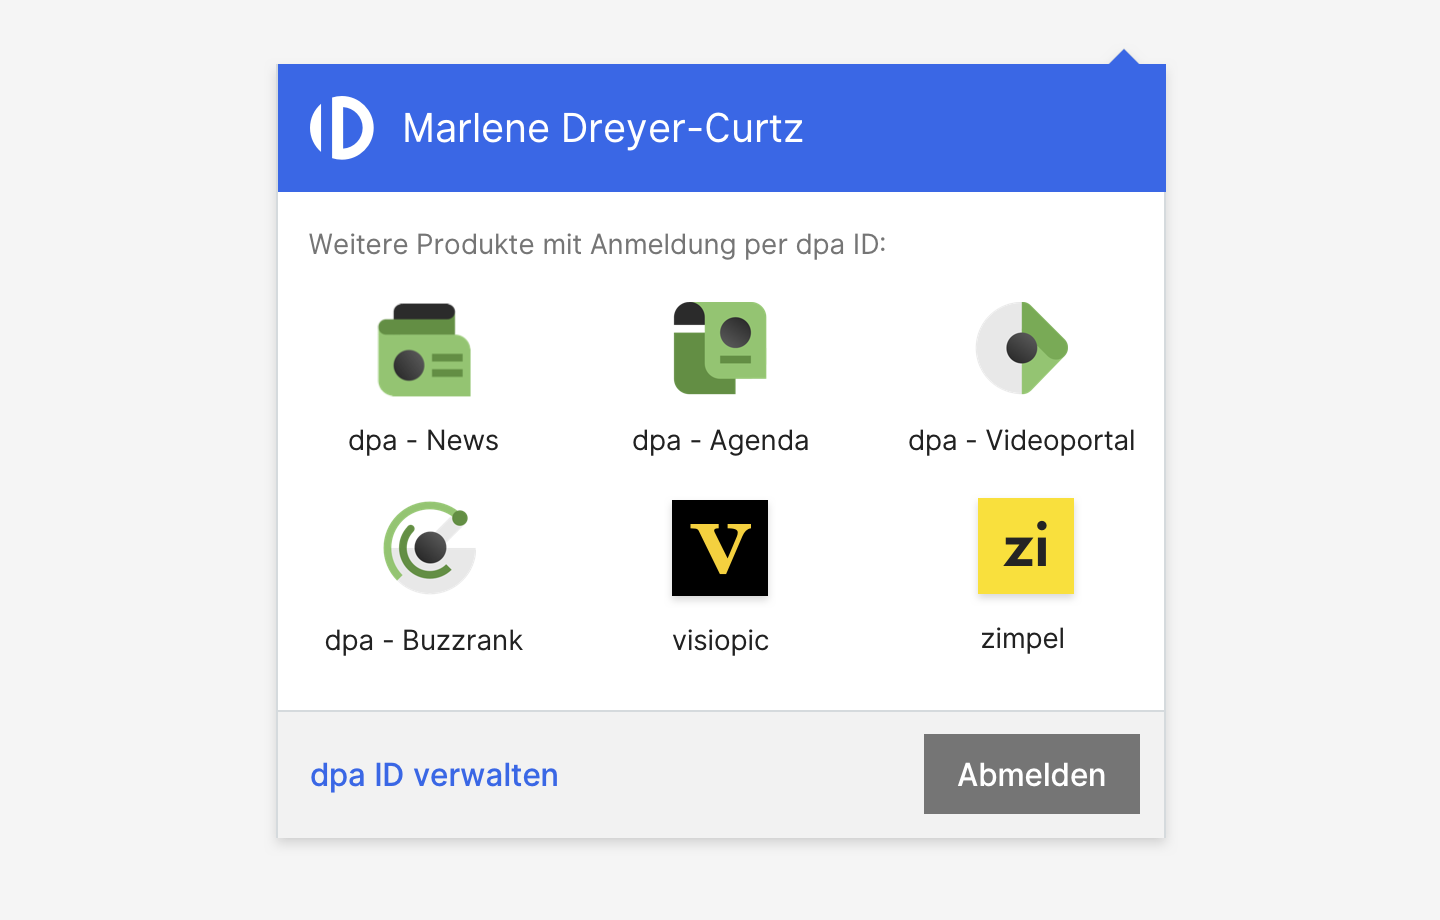
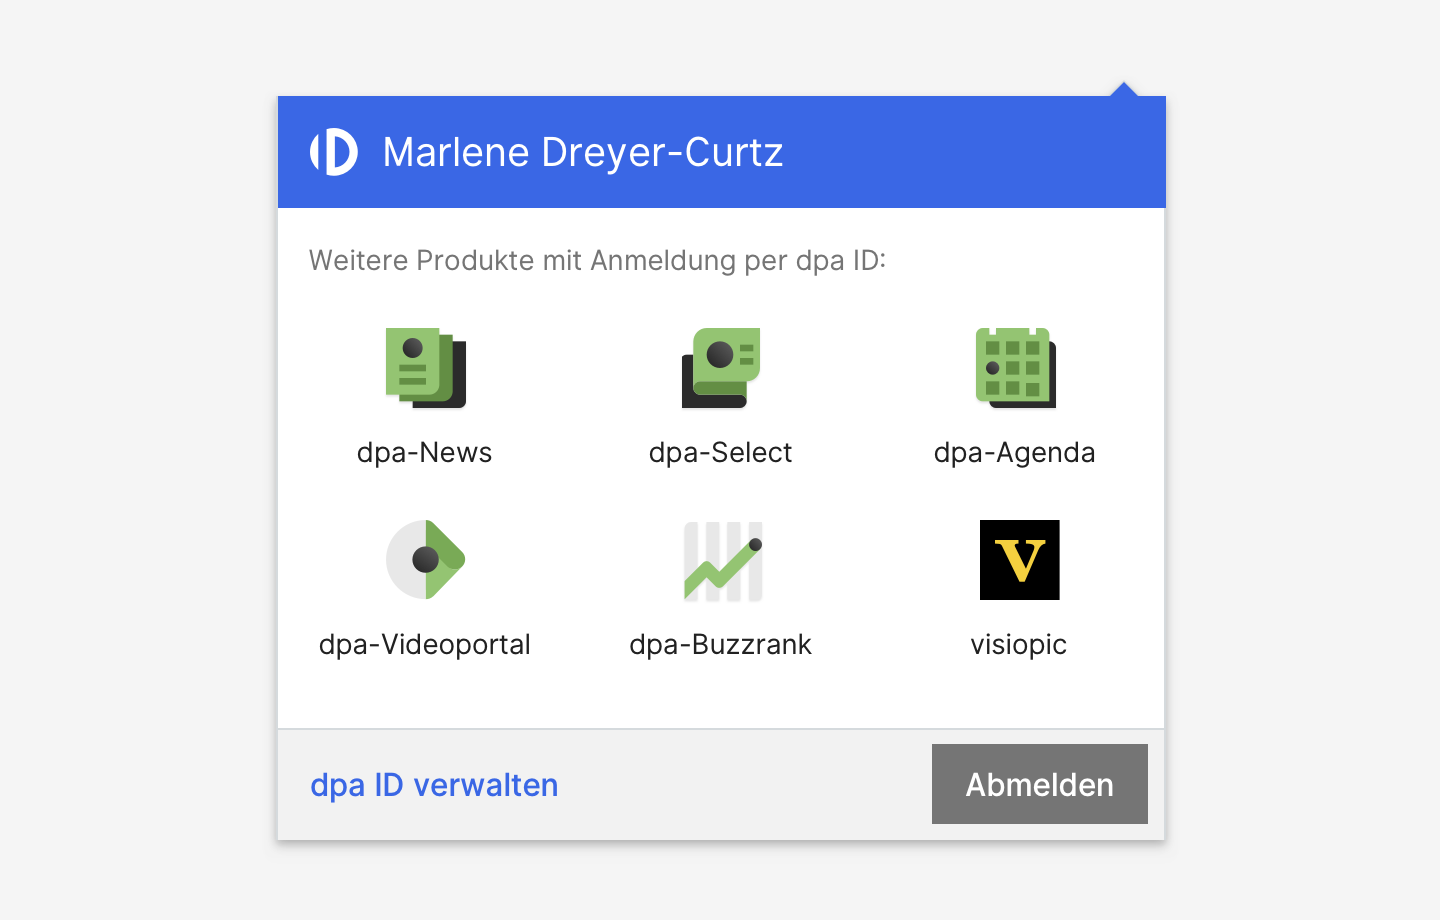
Update Overlay

diff --git a/docs/02_Komponenten/04_dpa ID Hub Overlay/overlay.md b/docs/02_Komponenten/04_dpa ID Hub Overlay/overlay.md
@@ -1,6 +1,4 @@
 ![](HubOverlay.png)
-**Hinweis:**
-Diese Darstellung enthält Icons, die noch nicht abgestimmt sind.
 
 ## Beschreibung
 Das dpa ID Hub Overlay bietet eine produktübergreifende Darstellung und Funktionalität zum Öffnen von Anwendungen und Verwaltung der dpa ID.
